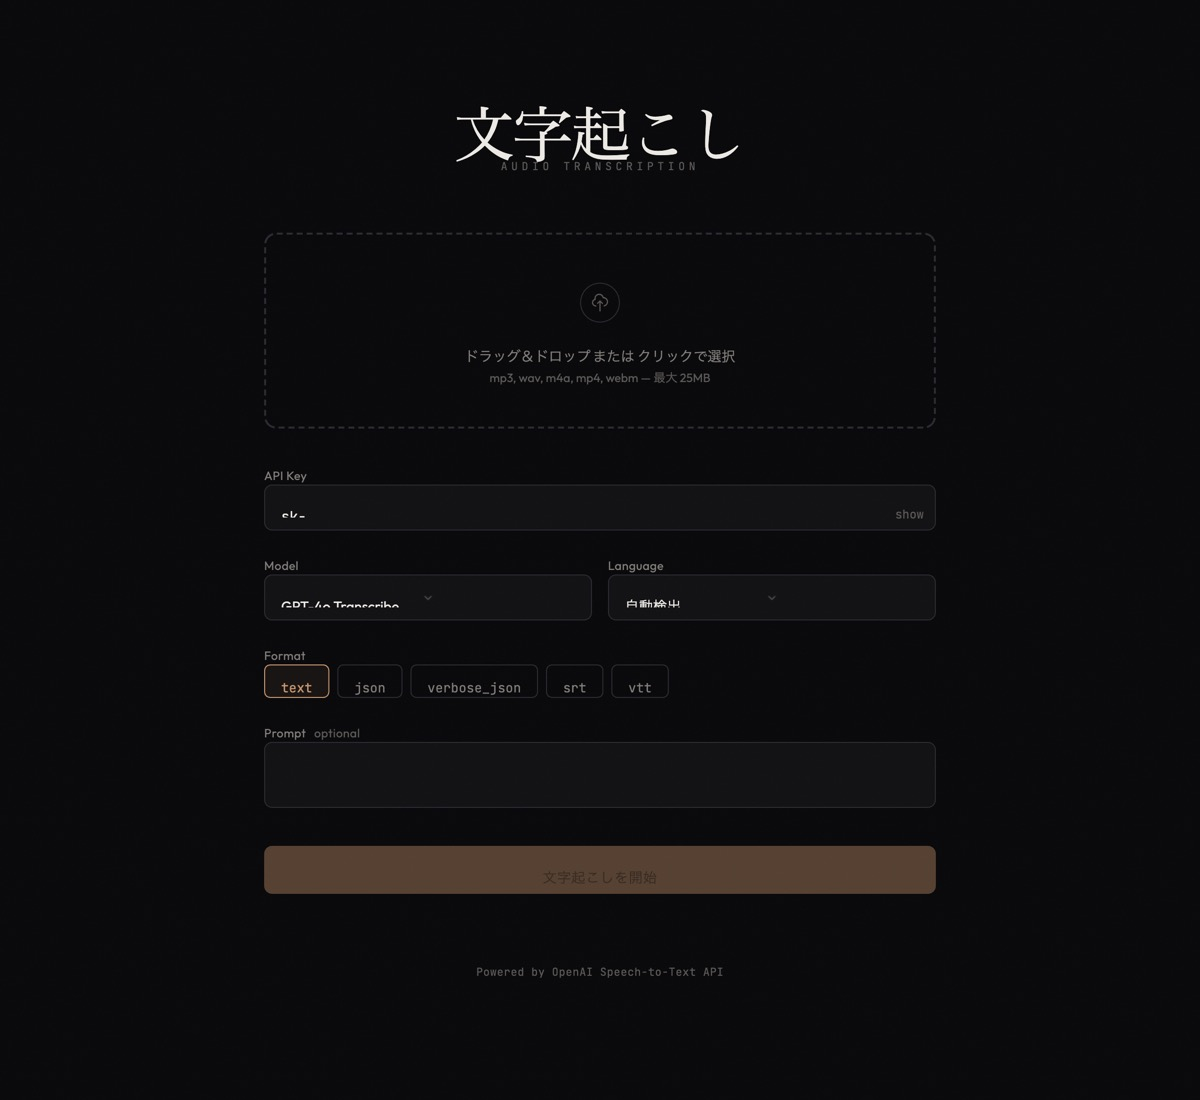
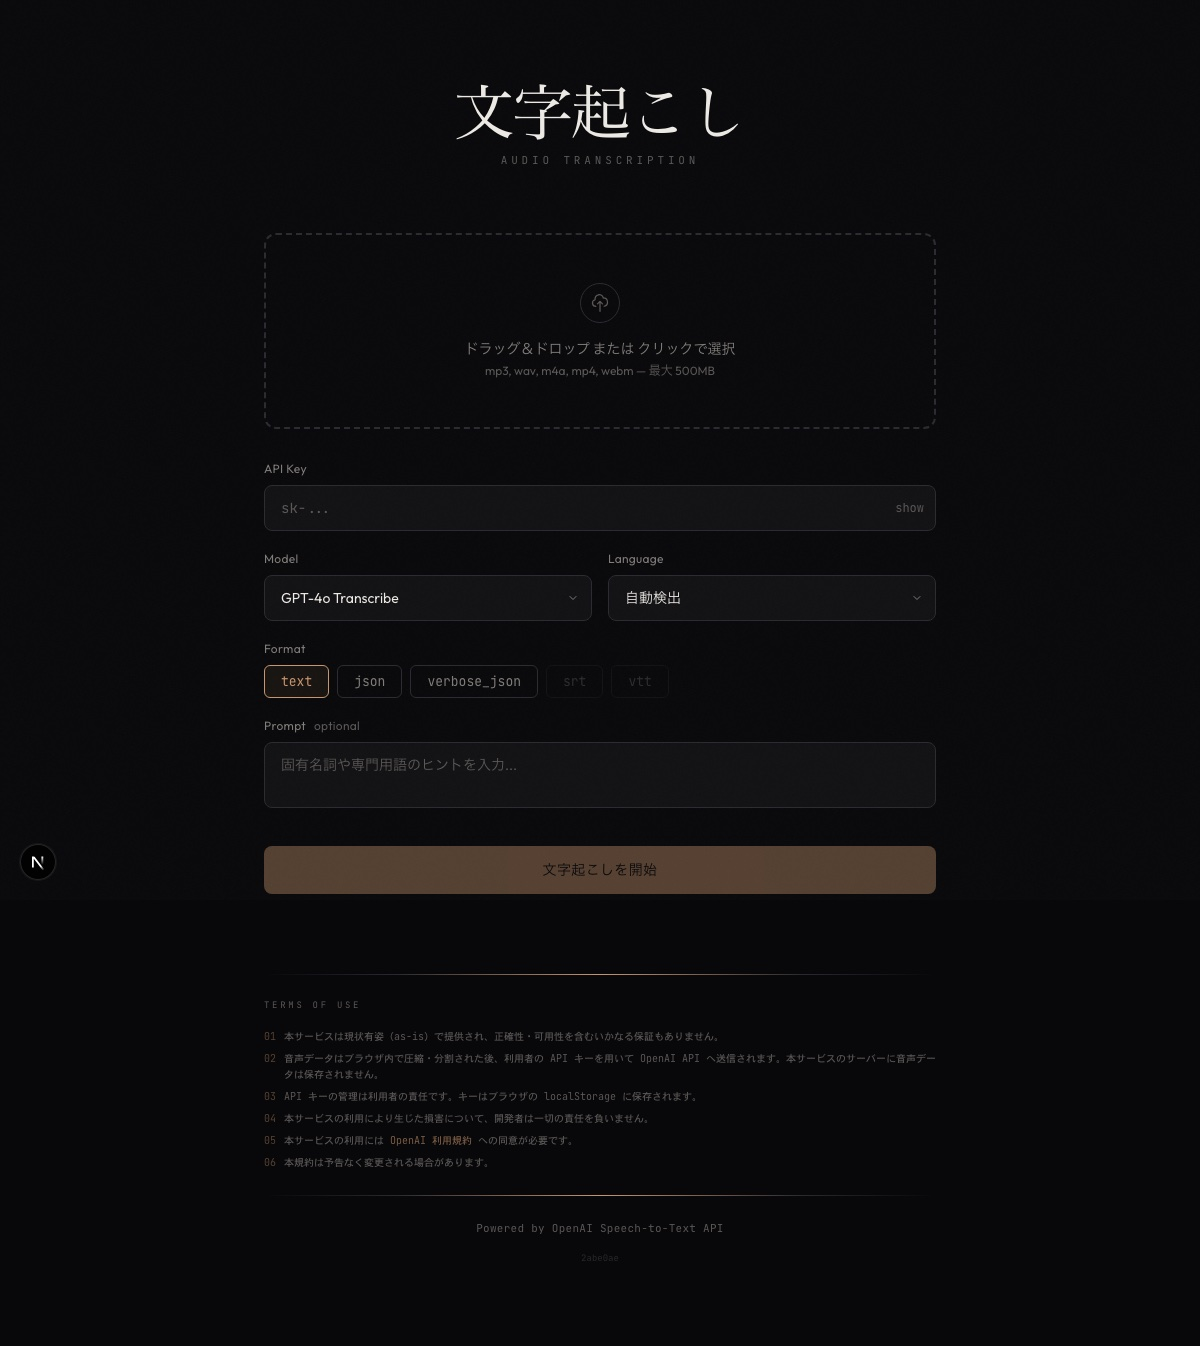
Update screenshot and OG image

diff --git a/app/layout.tsx b/app/layout.tsx
@@ -37,7 +37,7 @@ export const metadata: Metadata = {
     url: '/',
     type: 'website',
     locale: 'ja_JP',
-    images: [{ url: '/og.jpg', width: 1200, height: 1100 }],
+    images: [{ url: '/og.jpg', width: 1200, height: 1346 }],
   },
   twitter: {
     card: 'summary',
